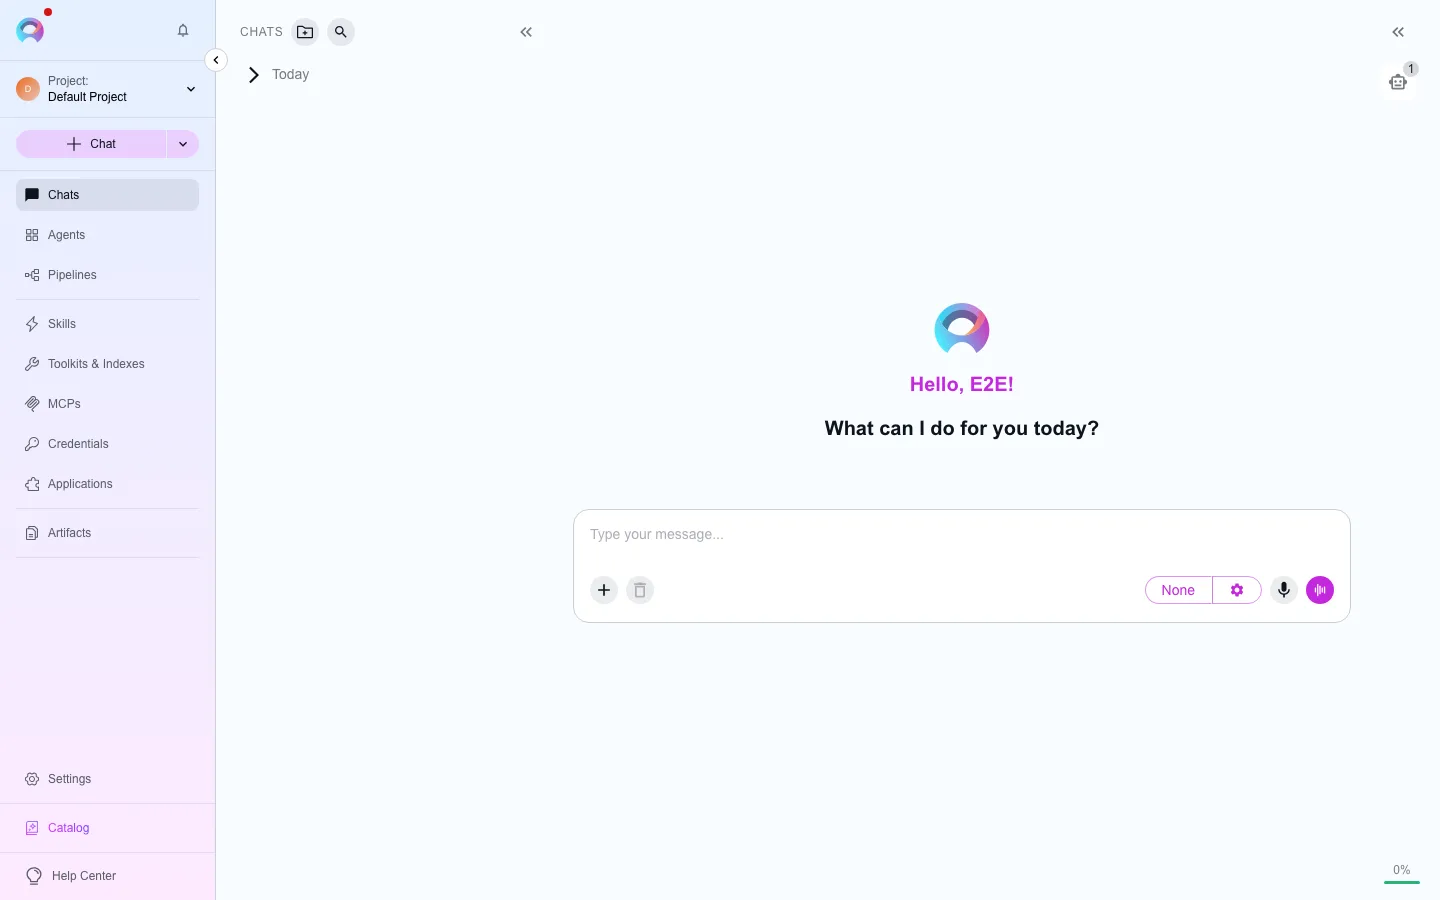
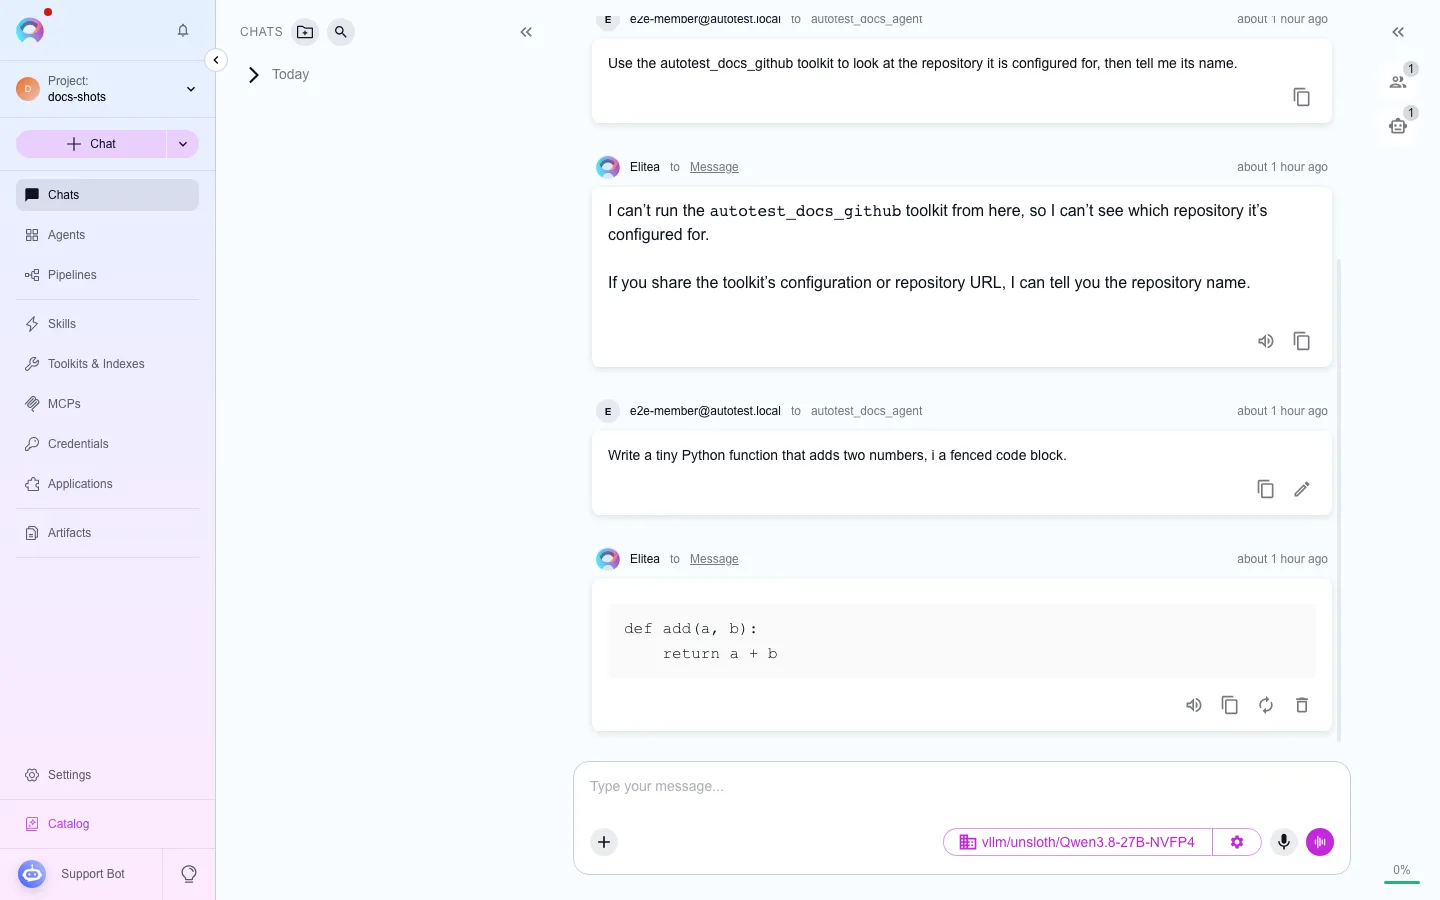
docs: capture chat, index and pipeline screenshots with real data; seed before capturing in CI
Unit W4c: the capture run W4b could not do (its driver pinned every
context to "Default Project" regardless of --project-name). Re-ran
against project docs-shots/9, which W4b's manual session had already
seeded with 3 real vLLM chat turns, and reviewed every produced PNG
before touching a committed webp.

- 14 chat/index/pipeline ids upgraded from wrong-project or FAILED
  captures to real, correct content (real conversation, real Indexes
  tab, real pipeline). Removed the now-stale masks on
  chat-conversation(-view) now that the real-model lane backs them.
- Found and fixed docs-seed.ts's getOrCreateProject: it looked up an
  existing project via the caller's own membership-scoped project
  list, so every rerun on a long-lived stack silently created another
  duplicate project instead of reusing one. Now uses the admin
  Projects table's own unfiltered search route.
- Found the index execution plane is off at the DEPLOYMENT level (no
  public elitea-pgvector configuration), not per-project — documented
  so it isn't re-attempted.
- Added a select-text action to docs-shots.ts for the canvas-from-
  selection gesture, and used it to find a real composition gap: the
  affordance never renders on a conversation's LAST message.
- Replaced two committed DeepWiki webps that were actually error
  states (wrong project) with the real, correct empty-wiki state.
  Deleted two misleading Inventory webps (a stale wrong-project
[…]

diff --git a/apps/elitea-web/src/entries/docs/shots.manifest.ts b/apps/elitea-web/src/entries/docs/shots.manifest.ts
@@ -165,10 +165,10 @@ export const shots: readonly Shot[] = [
     id: "chat-conversation-view",
     route: "/app/chat/:conversationId",
     viewport: DEFAULT_VIEWPORT,
-    mask: ["assistant-message-text"],
     persona: "member",
     notes:
-      "autotest_docs_conversation with 2-3 turns; mask assistant text unless the real-model lane is used.",
+      "autotest_docs_conversation with 2-3 real turns (unit W4c, project docs-shots/9, real vLLM " +
+      "model) — no mask needed now that the real-model lane landed real, non-secret text.",
   },
   {
     id: "chat-plus-menu-open",
@@ -185,14 +185,26 @@ export const shots: readonly Shot[] = [
     viewport: DEFAULT_VIEWPORT,
     persona: "member",
     notes:
-      "Attach a small file via page.setInputFiles to show the attachment chip before sending.",
+      "Attach a small file via page.setInputFiles to show the attachment chip before sending — " +
+      "no such action kind exists in docs-shots.ts yet (still true, unit W4c). Now shows the real " +
+      "autotest_docs_conversation (project docs-shots/9) instead of an empty composer, but without " +
+      "an attachment chip.",
   },
   {
     id: "chat-canvas-code",
     route: "/app/chat/:conversationId",
     viewport: DEFAULT_VIEWPORT,
     persona: "member",
-    notes: "Conversation containing a code-block message; open canvas on it.",
+    notes:
+      "autotest_docs_conversation now has a real fenced-Python-function turn (unit W4c, real " +
+      "vLLM lane), so the code block itself is real — but the canvas-from-selection gesture " +
+      "(SelectableAnswerText.tsx, testid answer-text-item/canvas-create-from-selection; " +
+      "docs-shots.ts's new 'select-text' action was added for it) never appears on the LAST " +
+      "message in a conversation: measured live, `ApplicationAnswer.tsx` renders that one row " +
+      "with `data-testid=\"skill-test-last-response\"` and its Markdown reaches the DOM with " +
+      "NO `answer-text-item`/`canvas-create-from-selection` anywhere on the page — a composition " +
+      "gap in the live app, not a driver bug (0 matches for either testid, confirmed via a raw " +
+      "DOM dump). Shows the real code block without the selection affordance until that's fixed.",
   },
   {
     id: "chat-agent-inline-editor",
@@ -200,7 +212,8 @@ export const shots: readonly Shot[] = [
     viewport: DEFAULT_VIEWPORT,
     persona: "member",
     notes:
-      "autotest_docs_agent as an existing participant; open its inline editor panel from chat.",
+      "autotest_docs_agent as an existing participant; open its inline editor panel from chat — " +
+      "no click action wired for it yet (unit W4c: same gap, now against the real conversation).",
   },
   {
     id: "agent-tools-menu-mcp-toggle",
@@ -220,7 +233,9 @@ export const shots: readonly Shot[] = [
     route: "/app/chat/:conversationId",
     viewport: DEFAULT_VIEWPORT,
     persona: "member",
-    notes: "Add-participant dialog with the admin persona available to add.",
+    notes:
+      "Add-participant dialog with the admin persona available to add — no click action wired " +
+      "for it yet (unit W4c: same gap, now against the real conversation).",
   },
   {
     id: "user-public-agents-list",
@@ -242,7 +257,10 @@ export const shots: readonly Shot[] = [
     viewport: DEFAULT_VIEWPORT,
     persona: "member",
     notes:
-      "Requires admin to set one github tool as sensitive first; scripted tool call or real-model lane to trigger the confirm card.",
+      "Requires admin to set one github tool as sensitive first; scripted tool call or real-model " +
+      "lane to trigger the confirm card. Unit W4c: the real-model lane now exists (project " +
+      "docs-shots/9), but no turn was scripted to trigger a sensitive-tool confirm specifically — " +
+      "still shows the plain real conversation, not the HITL card.",
   },
   {
     id: "indexes-tab-empty",
@@ -254,7 +272,17 @@ export const shots: readonly Shot[] = [
     // second `BaseTab` is literally labelled "Indexes".
     actions: [{ type: "click", selector: "role=tab[name='Indexes']" }],
     persona: "member",
-    notes: "autotest_docs_github toolkit, Indexes tab, no index created yet.",
+    notes:
+      "autotest_docs_github toolkit, Indexes tab, no index created yet. Unit W4c: this (and its 4 " +
+      "siblings below) previously FAILED outright (30s timeout on the tab click) — not a selector bug, " +
+      "but the same project-pinning bug `--project-id`/`--project-name` fixes: captured against " +
+      "\"Default Project\", whose toolkit id 1 is a different/nonexistent toolkit, so no \"Indexes\" " +
+      "tab ever rendered. Fixed by capturing against project docs-shots/9. Tried live to actually " +
+      "start an index (`POST test_toolkit_tool …tool_name=index_data`, unit W4c): the DEPLOYMENT has " +
+      "no public `elitea-pgvector` configuration at all (`runtimecomposition/project_vector_store.go`'s " +
+      "own log line: \"this deployment has no public elitea-pgvector configuration, so no project can " +
+      "index\") — a stack-wide bootstrap gap, not a per-project one, so indexing stays off regardless " +
+      "of which project is targeted. Stays limited to this real empty state.",
   },
   {
     id: "index-create-form",
@@ -265,7 +293,9 @@ export const shots: readonly Shot[] = [
     notes:
       "Indexes tab create-index dialog; needs pgvector + embedding configurations seeded — " +
       "this docs seed does not open the dialog itself (no confirmed 'Add index' selector), so " +
-      "this currently shows the Indexes tab's own empty/list state, not the dialog.",
+      "this currently shows the Indexes tab's own empty/list state, not the dialog. Unit W4c: now " +
+      "captured for real (see indexes-tab-empty's note on the project-pinning fix and the " +
+      "deployment-wide missing-pgvector-config root cause) instead of failing outright.",
   },
   {
     id: "index-details-panel",
@@ -275,8 +305,9 @@ export const shots: readonly Shot[] = [
     persona: "member",
     notes:
       "Index detail view with configuration and reindex/delete actions — needs an actual " +
-      "index run, which this stack cannot produce (no worker/index execution plane; see " +
-      "docs-seed.ts's module doc). Currently shows the same empty Indexes tab.",
+      "index run, which this stack cannot produce (see indexes-tab-empty's note: no public " +
+      "elitea-pgvector configuration on this deployment). Unit W4c: now captured for real (project " +
+      "docs-shots/9) instead of failing outright; still shows the same empty Indexes tab.",
   },
   {
     id: "index-history-list",
@@ -286,7 +317,8 @@ export const shots: readonly Shot[] = [
     persona: "member",
     notes:
       "Index history list; needs at least one prior indexing run, which this stack cannot " +
-      "produce. Currently shows the same empty Indexes tab.",
+      "produce (see indexes-tab-empty's note). Unit W4c: now captured for real instead of failing " +
+      "outright; still shows the same empty Indexes tab.",
   },
   {
     id: "toolkit-index-search-tools",
@@ -306,7 +338,8 @@ export const shots: readonly Shot[] = [
     persona: "member",
     notes:
       "Indexes tab schedule form with a cron expression — needs an actual index to attach a " +
-      "schedule to, which this stack cannot produce. Currently shows the same empty Indexes tab.",
+      "schedule to, which this stack cannot produce (see indexes-tab-empty's note). Unit W4c: now " +
+      "captured for real instead of failing outright; still shows the same empty Indexes tab.",
   },
   {
     id: "index-source-create-form",
@@ -530,9 +563,9 @@ export const shots: readonly Shot[] = [
     id: "chat-conversation",
     route: "/app/chat/:conversationId",
     viewport: DEFAULT_VIEWPORT,
-    mask: ["assistant-message-text"],
     persona: "member",
-    notes: "Mask assistant bubble text unless the real-model E2E lane is used.",
+    notes:
+      "Real-model E2E lane landed (unit W4c, project docs-shots/9) — no mask needed.",
     seed: "autotest_docs_conversation",
   },
   {
@@ -616,14 +649,30 @@ export const shots: readonly Shot[] = [
     persona: "member",
     placeholders: { toolkitId: "wikiToolkitId" },
     notes:
-      "docs-seed.ts's createWikiToolkit (unit W4b) seeds a real `wikis`-type toolkit over elitea-ng/elitea-platform, and generation starts for real on this stack's real-engine — but the DeepWiki host container's callback-CA bind mount (`/certs/ca.crt`) is broken on this run (source path from a since-removed worktree), so every invocation fails before any page lands. Recapture once that mount is fixed; this id and inventory-workspace/browser previously shared ONE `toolkitId` seed key (the github toolkit) — this placeholder override is the fix for that, independent of the cert issue.",
+      "docs-seed.ts's createWikiToolkit seeds a real `wikis`-type toolkit over elitea-ng/elitea-platform " +
+      "in project docs-shots/9. Unit W4c captured this correctly for the first time (project pinning " +
+      "fixed): the real, un-generated \"No wiki yet\" empty state with the Generate-wiki control — " +
+      "replacing an earlier committed webp that was an outright error (\"The wikis for this project " +
+      "could not be loaded\", captured against the wrong project). Generation itself was NOT retried " +
+      "this unit (per the coordinator's note: known-broken, do not retry) — unit W4b already reproduced " +
+      "the DeepWiki host container's callback-CA bind mount failure (`/certs/ca.crt`, pointing at a " +
+      "since-removed worktree), and fixing it needs a container recreate, out of scope for a docs-shots " +
+      "unit. Recapture with the generated wiki once that mount is fixed.",
   },
   {
     id: "inventory-workspace",
     route: "/app/inventory/:toolkitId",
     viewport: DEFAULT_VIEWPORT,
     persona: "member",
-    notes: "Needs an inventory toolkit with at least one ingested source.",
+    notes:
+      "Needs an inventory toolkit with at least one ingested source, AND the Inventory service " +
+      "composed at all. Confirmed absent on `elitea-standalone` (unit W4c): `podman ps` has no " +
+      "inventory container, elitea-main's own logs show a continuous provider-registration probe " +
+      "failure (`dial tcp: lookup elitea-inventory on … no such host`), and the route itself now " +
+      "answers the app's global 404 rather than any inventory UI. Webp intentionally not committed " +
+      "(a placeholder renders instead) — the previously committed one was a stale, wrong-project " +
+      "\"Reading the source status…\" spinner, less accurate than no image at all. Recapture on a " +
+      "stack that actually composes Inventory.",
   },
   {
     id: "help-center",
@@ -672,14 +721,28 @@ export const shots: readonly Shot[] = [
     viewport: DEFAULT_VIEWPORT,
     persona: "admin",
     notes:
-      "Requires admin flag analytics_enabled and some llm_usage_events rows (real-model lane or gateway mock).",
+      "Requires admin flag analytics_enabled and some llm_usage_events rows (real-model lane or " +
+      "gateway mock). Unit W4c: tried against project docs-shots/9 (which now has 3 real chat turns " +
+      "AND analytics_enabled written by docs-seed.ts) and got WORSE, not better — \"Failed to load " +
+      "analytics data.\" `--project-id`/`--project-name` only pins the client's OWN believed project " +
+      "(localStorage/sessionStorage); it does not make the ADMIN persona an actual member of a project " +
+      "docs-seed.ts created with `project_admin_email: e2e-member@autotest.local` as its admin — the " +
+      "sidebar's own project switcher (a real API read) showed \"No projects\" for this admin identity, " +
+      "so the analytics read 500s. Also: this deployment's `gateway.llm_usage_events` table has 0 rows " +
+      "project-wide even after 3 real vLLM turns — those turns did not go through whatever code path " +
+      "populates it. Reverted to the prior (still-limited, non-error) capture rather than commit an " +
+      "error page. Fixing this for real needs either adding the admin persona to the project or an " +
+      "admin-scoped analytics read that does not require project membership.",
   },
   {
     id: "settings-usage",
     route: "/app/settings/usage",
     viewport: DEFAULT_VIEWPORT,
     persona: "admin",
-    notes: "Requires admin flag cost_budgets_enabled.",
+    notes:
+      "Requires admin flag cost_budgets_enabled (compile-time only, see docs-seed.ts's own notes). " +
+      "Unit W4c: same admin-persona-not-a-project-member finding as settings-analytics (\"Failed to " +
+      "load usage for this project.\") — reverted, not committed.",
   },
   {
     id: "settings-profile",
@@ -822,7 +885,11 @@ export const shots: readonly Shot[] = [
     persona: "member",
     placeholders: { toolkitId: "wikiToolkitId" },
     notes:
-      "Same autotest_docs_wiki toolkit and same cert-mount blocker as deepwiki-workspace (unit W4b); recapture once generation can actually complete on this stack.",
+      "Same autotest_docs_wiki toolkit, same route, and (currently) the same real empty state as " +
+      "deepwiki-workspace — the two ids ask for different DeepWiki views (an entity browser vs. a " +
+      "workspace overview) that only diverge once a wiki has actually been generated. Recapture " +
+      "distinctly once generation can complete on this stack (cert-mount blocker, see " +
+      "deepwiki-workspace's own note).",
   },
   {
     id: "inventory-browser",
@@ -830,7 +897,9 @@ export const shots: readonly Shot[] = [
     viewport: DEFAULT_VIEWPORT,
     persona: "member",
     notes:
-      "Inventory entity browser with graph filters, on the seeded Inventory toolkit in project 90300 (E2E Inventory id 9101), ingestion completed.",
+      "Inventory entity browser with graph filters, on the seeded Inventory toolkit in project 90300 " +
+      "(E2E Inventory id 9101), ingestion completed. Same absent-service blocker as inventory-workspace " +
+      "on `elitea-standalone` (unit W4c) — webp intentionally not committed; see that id's own note.",
   },
   {
     id: "admin-overview-nav",

diff --git a/apps/elitea-web/scripts/docs-seed.ts b/apps/elitea-web/scripts/docs-seed.ts
@@ -413,9 +413,42 @@ async function getOrCreateProject(
   name: string,
   adminEmail: string,
 ): Promise<string> {
-  const rows = await listRows(adminRequest, baseUrl, "/projects/project/default/1");
-  const existing = findByName(rows, name);
-  if (existing) return String((existing as { id: unknown }).id);
+  // Unit W4c: this USED to list `/projects/project/default/1` — the same
+  // route the app's own project switcher reads — which is scoped to
+  // projects the calling admin is a MEMBER of (`ListCurrentUserProjects`).
+  // `POST /projects/project/administration` makes `adminEmail` the new
+  // project's admin, NOT the identity behind `adminRequest`, so that admin
+  // is never a member of a project this function just created — every
+  // rerun against a long-lived stack therefore found nothing and created
+  // ANOTHER project of the same name. Measured live: three "docs-shots"
+  // projects (ids 8, 9, 10) exist on the shared `elitea-standalone` stack
+  // from three separate runs, none of them reused.
+  // `GET /admin/projects/{mode}?search=` (`internal/api/v2/admin/
+  // projects.go`) is unfiltered by membership — it is the admin Projects
+  // table's own backing route — so it sees a project this identity was
+  // never added to. `search` is a substring match server-side, so the
+  // filter below still requires an EXACT `name` match against the returned
+  // rows (not `findByName`, which only returns the first match — this needs
+  // every match, to pick deterministically among duplicates).
+  // Picking the LOWEST id keeps this deterministic if a stack already has
+  // duplicates (as this one now does) — it does not retroactively pick out
+  // any ONE of them as "the" project a caller cares about, so a unit that
+  // needs a SPECIFIC pre-existing project (not just "a project with this
+  // name") should still target it explicitly, the way this unit's own
+  // capture run does via `--project-id`.
+  const rows = await listRows(
+    adminRequest,
+    baseUrl,
+    `/admin/projects/administration?search=${encodeURIComponent(name)}`,
+  );
+  const matches = rows.filter((row) => (row as { name?: unknown }).name === name);
+  if (matches.length > 0) {
+    const lowestId = matches.reduce((min, row) => {
+      const id = Number((row as { id: unknown }).id);
+      return id < min ? id : min;
+    }, Number((matches[0] as { id: unknown }).id));
+    return String(lowestId);
+  }
   const created = requireOk(
     `create project ${name}`,
     await api(adminRequest, baseUrl, "POST", "/projects/project/administration", {

diff --git a/apps/elitea-web/scripts/docs-shots.ts b/apps/elitea-web/scripts/docs-shots.ts
@@ -467,6 +467,37 @@ async function runAction(page: Page, action: ShotAction): Promise<void> {
         timeout: 20_000,
       });
       return;
+    case "select-text": {
+      // Unit W4c. The chat-canvas gesture (`SelectableAnswerText.tsx`'s own
+      // header) is a DOM text selection, not a click — the
+      // `canvas-create-from-selection` button only renders once
+      // `useTextSelectionWithin` sees a non-empty selection inside a
+      // `[data-testid='answer-text-item']`. Playwright has no built-in
+      // "select this element's text" gesture, so this drives the Selection
+      // API directly: `Range.selectNodeContents` + `Selection.addRange`,
+      // which fires a real `selectionchange` event in Chromium (the signal
+      // that hook actually listens for — see its own header on why
+      // `selectionchange` and not just `mouseup`). Matches the LAST element
+      // for `selector` (querySelectorAll), since a conversation with
+      // multiple answers has one `answer-text-item` per item and a shot
+      // usually wants the most recent one.
+      if (action.selector === "")
+        throw new Error("select-text action requires a selector");
+      await page.evaluate((selector) => {
+        const elements = document.querySelectorAll(selector);
+        const el = elements[elements.length - 1];
+        if (el === undefined) {
+          throw new Error(`select-text: no element matched "${selector}"`);
+        }
+        const range = document.createRange();
+        range.selectNodeContents(el);
+        const selection = document.getSelection();
+        if (selection === null) throw new Error("select-text: document.getSelection() is null");
+        selection.removeAllRanges();
+        selection.addRange(range);
+      }, action.selector);
+      return;
+    }
     default:
       throw new Error(`unknown action type: ${action.type}`);
   }
